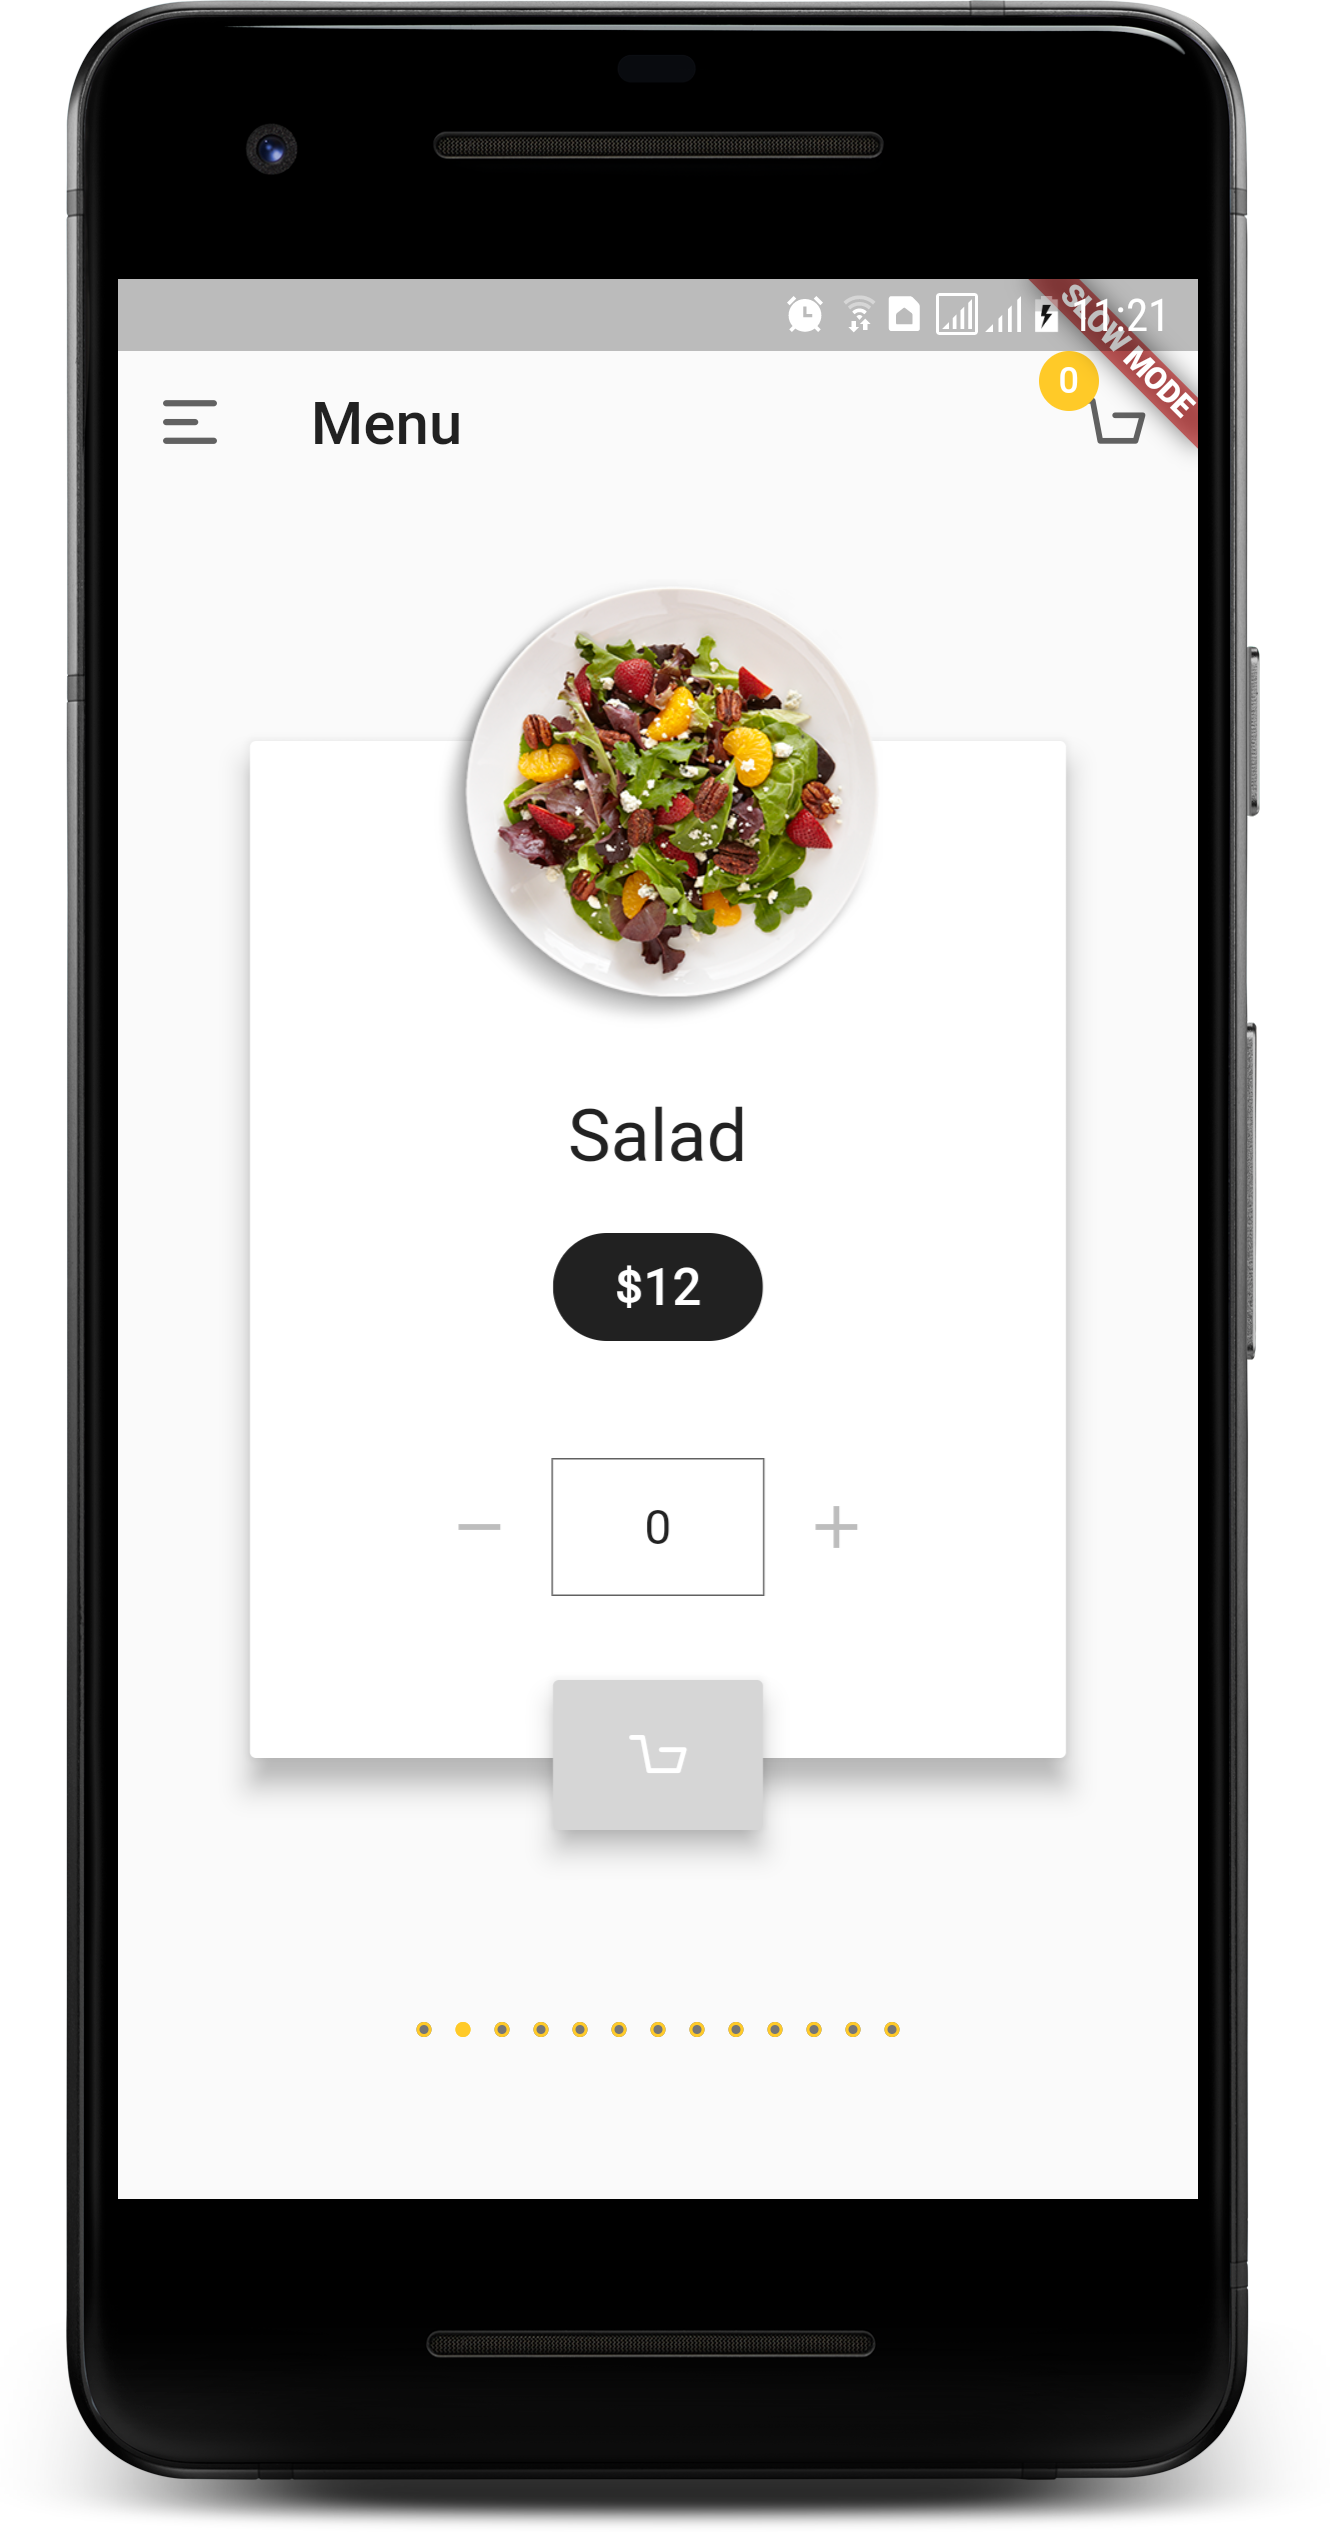
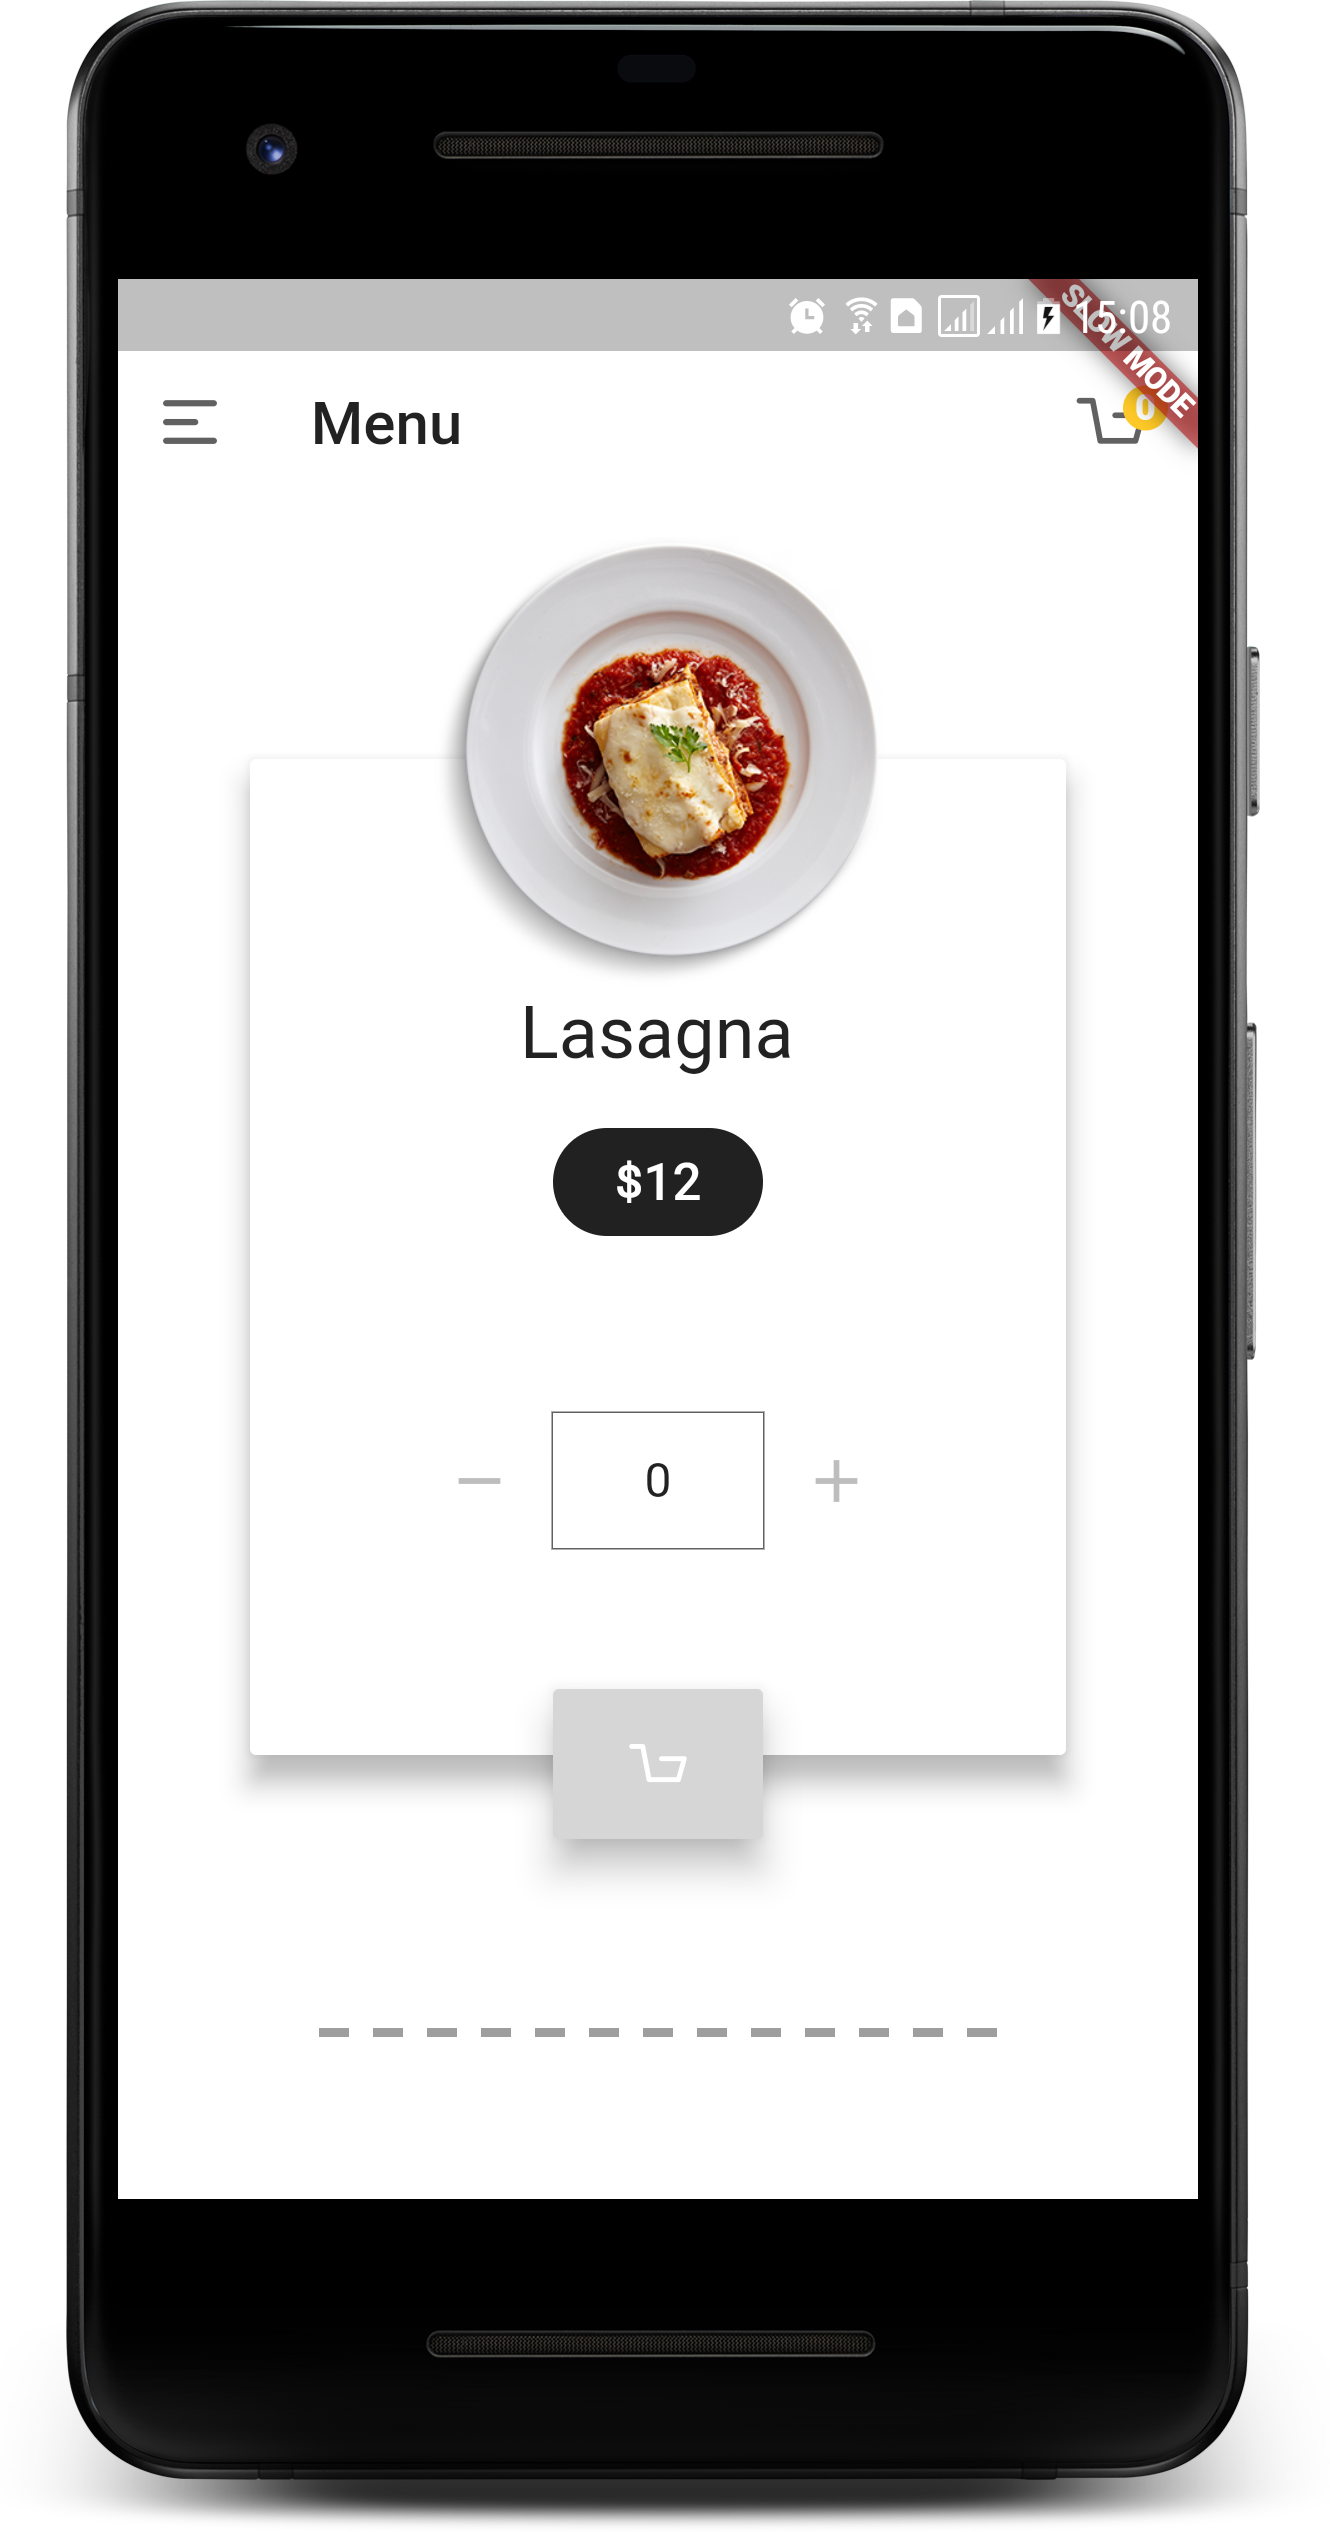
custom page indicators

diff --git a/lib/view/rectangle_indicator.dart b/lib/view/rectangle_indicator.dart
@@ -1,0 +1,167 @@
+import 'package:flutter/material.dart';
+
+class RectangleIndicator extends StatefulWidget {
+  final PageController pagerController;
+  final int size;
+  final double radius;
+  final Color baseColor;
+  final Color selectedColor;
+
+  RectangleIndicator(this.pagerController, this.size, this.radius, this.baseColor,
+      this.selectedColor);
+
+  RectangleIndicator.withIntroduction(this.size, this.radius, this.baseColor,
+      this.selectedColor, {this.pagerController: null});
+
+  @override
+  State<StatefulWidget> createState() =>
+      new _RectangleIndicatorState(
+          pagerController, size, radius, baseColor, selectedColor);
+
+  static RectangleIndicator get(RectangleIndicator indicator,
+      PageController pagerController) {
+    return new RectangleIndicator(
+        pagerController, indicator.size, indicator.radius, indicator.baseColor,
+        indicator.selectedColor);
+  }
+}
+
+class _RectangleIndicatorState extends State<RectangleIndicator>
+    with TickerProviderStateMixin {
+  final PageController pagerController;
+  final int size;
+
+  int oldPage = 0;
+  int page = 0;
+
+  double oldOffset = 0.0;
+
+  Row items;
+
+  _RectangleIndicatorState(this.pagerController, this.size, radius,
+      baseColor, selectedColor) {
+    pagerController.addListener(animate);
+    List<Container> icons = new List();
+
+    for (int i = 0; i < size; i++) {
+      icons.add(new Container(
+        margin: new EdgeInsets.all(4.0),
+        child: new _AnimatedRectangleAvatar(
+          controller: new AnimationController(
+            duration: new Duration(milliseconds: 100),
+            vsync: this,
+          ),
+          baseColor: baseColor,
+          selectedColor: selectedColor,
+          radius: radius,
+        ),
+      ));
+    }
+
+    items = new Row(
+      children: icons,
+    );
+    getController(items.children.elementAt(0)).forward();
+  }
+
+
+  @override
+  Widget build(BuildContext context) {
+    return new FittedBox(
+      alignment: FractionalOffset.bottomCenter,
+      child: items,
+    );
+  }
+
+  void animate() {
+    bool isInLimits = pagerController.position.minScrollExtent <=
+        pagerController.offset &&
+        pagerController.offset <= pagerController.position.maxScrollExtent;
+
+    page = pagerController.offset ~/
+        pagerController.position.viewportDimension;
+
+    if (!isInLimits) return;
+    bool directionNormal = oldOffset - pagerController.offset <= 0;
+
+    var oldController = getController(items.children.elementAt(oldPage));
+    var controller = getController(items.children.elementAt(page));
+    var nextController;
+    if (page + 1 < size) {
+      nextController = getController(items.children.elementAt(page + 1));
+    }
+
+    if (directionNormal) {
+      oldController.reverse();
+      controller.forward();
+    } else {
+      controller.forward();
+      nextController?.reverse();
+    }
+
+
+    oldPage = page;
+    oldOffset = pagerController.offset;
+  }
+
+  AnimationController getController(Widget widget) {
+    if (widget is Container) {
+      var i = widget.child;
+      if (i is _AnimatedRectangleAvatar) {
+        return i.controller;
+      }
+    }
+    return null;
+  }
+}
+
+
+class _AnimatedRectangleAvatar extends StatelessWidget {
+
+  final AnimationController controller;
+  final double radius;
+  final Color baseColor;
+  final Color selectedColor;
+
+  _AnimatedRectangleAvatar({
+    Key key,
+    this.controller,
+    this.radius,
+    this.baseColor,
+    this.selectedColor
+  }) : super(key: key);
+
+  @override
+  Widget build(BuildContext context) {
+    Container selectedRectangle = new Container(
+        decoration: new BoxDecoration(
+          shape: BoxShape.rectangle,
+          color: selectedColor,
+        ),
+        width: 10.0,
+        height: 3.0
+    );
+
+    return new Stack(
+      alignment: FractionalOffset.center,
+      children: <Widget>[
+        new ScaleTransition(
+          scale: new CurvedAnimation(
+              parent: controller,
+              curve: Curves.linear,
+              reverseCurve: Curves.bounceOut
+          ),
+          child: selectedRectangle,
+        ),
+        new Container(
+          width: 10.0,
+          height: 3.0,
+          decoration: new BoxDecoration(
+            color: baseColor,
+            shape: BoxShape.rectangle,
+          ),
+        ),
+      ],
+    );
+  }
+}

diff --git a/lib/ui/newPager.dart b/lib/ui/newPager.dart
@@ -1,32 +1,39 @@
 import 'package:flutter/material.dart';
 import 'package:menu/model/food.dart';
 import 'package:menu/model/menu.dart';
-import 'package:menu/view/itemCard.dart';
 import 'package:menu/view/cartButton.dart';
-import 'package:menu/view/foodImage.dart';
 import 'package:menu/view/rectangle_indicator.dart';
+import 'package:menu/view/foodImage.dart';
+import 'package:menu/view/itemCard.dart';
 
-class PageSelector extends StatelessWidget {
+
+class MenuPager extends StatelessWidget {
+
+  final PageController controller = new PageController();
   final int _counter = 0;
+
   @override
   Widget build(BuildContext context) {
-    final TabController controller = DefaultTabController.of(context);
-    return new SafeArea(
-      top: false,
-      bottom: false,
-      child: new Column(
-        children: <Widget>[
-          new Expanded(
-            child: new TabBarView(
+    return new Scaffold(
+      body: new Container(
+        padding: new EdgeInsets.only(top: 16.0,),
+        decoration: new BoxDecoration(
+            color: Colors.white
+        ),
+        child: new Stack(
+          alignment: FractionalOffset.bottomCenter,
+          children: <Widget>[
+            new PageView(
+              controller: controller,
                 children: Menu.menu.map((Food food) {
                   return new Container(
                     key: new ObjectKey(food),
                     child: new Stack(
                       children: <Widget>[
                         new Container(
-                          width: 300.0,
                           height: 400.0,
-                          margin: const EdgeInsets.only(top: 150.0, bottom: 50.0, left: 40.0, right: 40.0),
+                          margin:  const EdgeInsets.only(top: 80.0),
+                          padding: const EdgeInsets.only(top: 60.0, left: 40.0, right: 40.0),
                           child: new Card(
                               elevation: 7.0,
                               child: new ItemCard(food: food)
@@ -39,12 +46,15 @@ class PageSelector extends StatelessWidget {
                   );
                 }).toList()
             ),
-          ),
-          new Container(
-            padding: const EdgeInsets.only(bottom: 50.0),
-            child: new TabPageSelector(controller: controller, indicatorSize: 5.0, selectedColor: Colors.amber[600]),
-          ),
-        ],
+            new Container(
+                margin: new EdgeInsets.only(
+                  top: 50.0,
+                  bottom: 50.0,
+                ),
+                child: new RectangleIndicator(controller, Menu.menu.length, 5.0, Colors.grey, Colors.black)
+            ),
+          ],
+        ),
       ),
     );
   }

diff --git a/lib/main.dart b/lib/main.dart
@@ -1,7 +1,7 @@
 import 'package:flutter/material.dart';
 import 'package:menu/ui/customAppBar.dart';
 import 'package:menu/model/menu.dart';
-import 'package:menu/ui/pageSelector.dart';
+import 'package:menu/ui/newPager.dart';
 
 void main() => runApp(new MyHomePage(title: 'Menu'));
 
@@ -25,10 +25,7 @@ class _MyHomePageState extends State<MyHomePage> {
           body: new Stack(
             alignment: AlignmentDirectional.topEnd,
             children: <Widget>[
-              new DefaultTabController(
-                length: Menu.menu.length,
-                child: new PageSelector(),
-              ),
+              new MenuPager(),
               new CustomAppBar(),
               new Container(
                 margin: new EdgeInsets.only(

diff --git a/lib/view/itemCard.dart b/lib/view/itemCard.dart
@@ -9,7 +9,7 @@ class ItemCard extends StatelessWidget {
   @override
   Widget build(BuildContext context) {
     return new Container(
-    margin: const EdgeInsets.only(top: 100.0, bottom: 35.0),
+    margin: const EdgeInsets.only(top: 60.0, bottom: 50.0),
     child: new Column(
         mainAxisAlignment: MainAxisAlignment.spaceEvenly,
         children: <Widget>[
@@ -30,7 +30,7 @@ class ItemCard extends StatelessWidget {
             ),
           ),
           new Container(
-            margin: const EdgeInsets.only(top: 20.0),
+            margin: const EdgeInsets.only(top: 40.0),
             child: new Row(
               mainAxisAlignment: MainAxisAlignment.center,
               children: <Widget>[

diff --git a/lib/view/foodImage.dart b/lib/view/foodImage.dart
@@ -9,7 +9,7 @@ class FoodImage extends StatelessWidget {
   Widget build(BuildContext context) {
     return new Container(
       alignment: new FractionalOffset(0.5, 0.0),
-      margin: const EdgeInsets.only(top: 80.0),
+      margin: const EdgeInsets.only(top: 70.0),
       child: new Hero(
         tag: 'icon-${food.id}',
         child: new Image(

diff --git a/lib/view/cartButton.dart b/lib/view/cartButton.dart
@@ -8,7 +8,7 @@ class CartButton extends StatelessWidget{
   Widget build(BuildContext context) {
     return new Container(
       alignment: Alignment.bottomCenter,
-      margin: const EdgeInsets.only(bottom: 60.0),
+      margin: const EdgeInsets.only(bottom: 120.0),
       child: new SizedBox(
         width: 70.0,
         height: 50.0,
